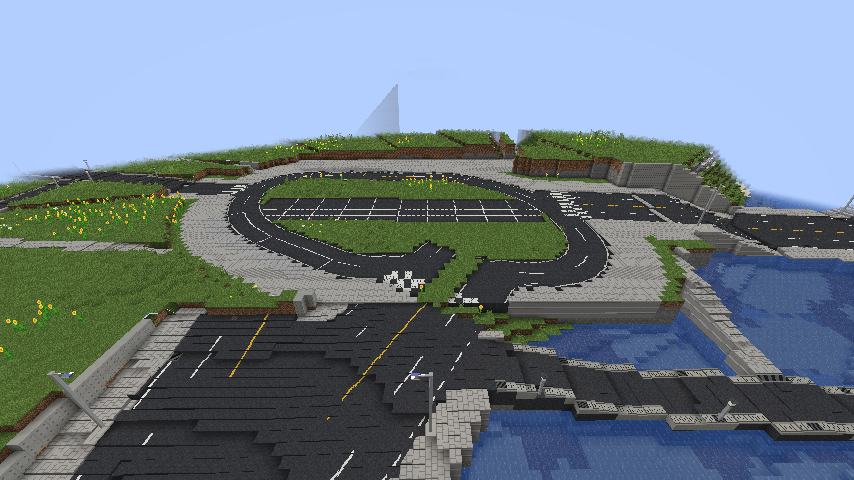
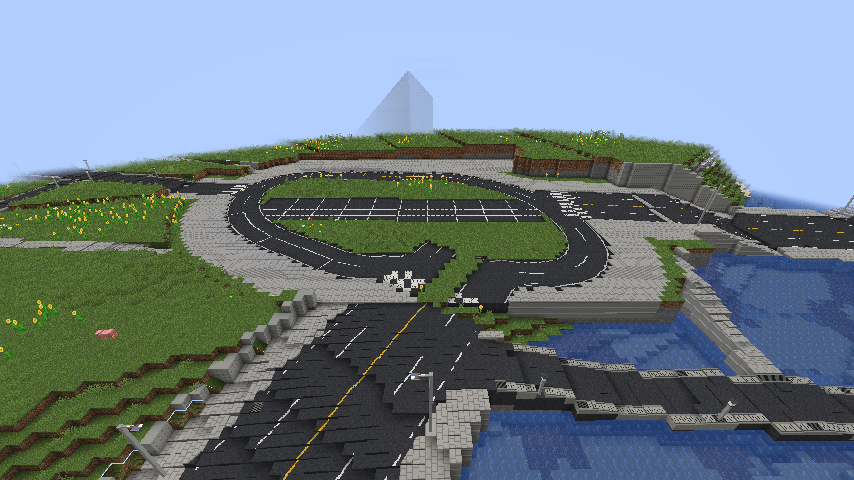
The other arm of a Y with a station's avenue taken away back to its junction; buildings kept off public buildings over their whole footprint

diff --git a/core/src/main/java/com/mtm/citybuilder/core/street/StreetLayer.java b/core/src/main/java/com/mtm/citybuilder/core/street/StreetLayer.java
@@ -2218,8 +2218,135 @@ public final class StreetLayer {
                     out, squareSeed, free, entries);
             plazas.add(square);
             segments.removeIf(inside::contains);
+            prune(square, segments);
         }
         return plazas;
+    }
+
+    /** How far back a street left ending at a square is taken away, at most. */
+    private static final double PRUNE_REACH = 150.0;
+
+    /**
+     * The streets cars use left ending at a square and not joined to its loop (beside its throat: the other arm of a
+     * Y with the avenue, both having run to the station) taken away back to the junction they leave the network at,
+     * not past a side street meeting them nor further than {@link #PRUNE_REACH}.
+     */
+    private static void prune(StationPlaza square, List<StreetSegment> segments) {
+        Map<Long, List<StreetSegment>> at = new HashMap<>();
+        for (StreetSegment g : segments) {
+            at.computeIfAbsent(node(g.x1(), g.z1()), k -> new ArrayList<>()).add(g);
+            at.computeIfAbsent(node(g.x2(), g.z2()), k -> new ArrayList<>()).add(g);
+        }
+        java.util.Set<StreetSegment> gone = java.util.Collections.newSetFromMap(new java.util.IdentityHashMap<>());
+        for (StreetSegment g : segments) {
+            if (!carried(g)) {
+                continue;
+            }
+            for (int end = 0; end < 2; end++) {
+                double px = end == 0 ? g.x1() : g.x2();
+                double pz = end == 0 ? g.z1() : g.z2();
+                if (at.get(node(px, pz)).size() != 1 || !reaches(square, px, pz, 0.5 * g.width() + 3.0)
+                        || joined(square, px, pz, g.width()) || meets(segments, g, px, pz)) {
+                    continue;
+                }
+                // Back along the street from its dead end to where it leaves the network
+                List<StreetSegment> chain = new ArrayList<>();
+                StreetSegment piece = g;
+                double x = px;
+                double z = pz;
+                double length = 0.0;
+                boolean ends = false;
+                while (piece != null && length <= PRUNE_REACH) {
+                    chain.add(piece);
+                    length += piece.length();
+                    boolean first = Math.hypot(piece.x1() - x, piece.z1() - z) < 0.5;
+                    x = first ? piece.x2() : piece.x1();
+                    z = first ? piece.z2() : piece.z1();
+                    List<StreetSegment> there = at.get(node(x, z));
+                    StreetSegment next = null;
+                    int others = 0;
+                    for (StreetSegment o : there) {
+                        if (o != piece) {
+                            others++;
+                            next = o;
+                        }
+                    }
+                    if (others != 1 || sideOn(segments, piece, chain)) {
+                        ends = others >= 2 && !sideOn(segments, piece, chain);
+                        break;
+                    }
+                    piece = next;
+                }
+                if (ends && length <= PRUNE_REACH) {
+                    gone.addAll(chain);
+                }
+            }
+        }
+        segments.removeIf(gone::contains);
+    }
+
+    private static long node(double x, double z) {
+        return ((long) Math.round(2 * x) << 32) ^ (Math.round(2 * z) & 0xFFFFFFFFL);
+    }
+
+    /** Whether a square's land lies within {@code r} of a point. */
+    private static boolean reaches(StationPlaza square, double x, double z, double r) {
+        double[] b = square.bounds();
+        if (x < b[0] - r || x > b[2] + r || z < b[1] - r || z > b[3] + r) {
+            return false;
+        }
+        if (square.contains(x, z)) {
+            return true;
+        }
+        for (double d = 1.0; d <= r; d += 1.0) {
+            for (int k = 0; k < 16; k++) {
+                double a = Math.PI * k / 8;
+                if (square.contains(x + d * Math.cos(a), z + d * Math.sin(a))) {
+                    return true;
+                }
+            }
+        }
+        return false;
+    }
+
+    /** Whether a street's end is joined to the square: one of its links (the throat or a joined street) starts by it. */
+    private static boolean joined(StationPlaza square, double x, double z, double width) {
+        double[] p = square.local(x, z);
+        for (StationPlaza.Link link : square.links()) {
+            if (Math.hypot(link.u1() - p[0], link.v1() - p[1]) <= 0.5 * width + 4.0
+                    || Math.hypot(link.u2() - p[0], link.v2() - p[1]) <= 0.5 * width + 4.0) {
+                return true;
+            }
+        }
+        return false;
+    }
+
+    /** Whether a street's end meets another piece between its ends (a T onto it): not a dead end. */
+    private static boolean meets(List<StreetSegment> segments, StreetSegment g, double x, double z) {
+        for (StreetSegment o : segments) {
+            if (o != g && distanceToSegment(x, z, o) <= Math.max(1.0, 0.5 * o.width())) {
+                return true;
+            }
+        }
+        return false;
+    }
+
+    /** Whether a street other than the chain's meets a piece of it between its ends, on its centre line. */
+    private static boolean sideOn(List<StreetSegment> segments, StreetSegment piece, List<StreetSegment> chain) {
+        for (StreetSegment o : segments) {
+            if (chain.contains(o)) {
+                continue;
+            }
+            for (double[] e : new double[][]{{o.x1(), o.z1()}, {o.x2(), o.z2()}}) {
+                boolean atEnd = Math.hypot(e[0] - piece.x1(), e[1] - piece.z1()) < 0.5
+                        || Math.hypot(e[0] - piece.x2(), e[1] - piece.z2()) < 0.5;
+                // On its centre line (a T onto it), not a street of its own merely running within its paving
+                if (!atEnd && distanceToSegment(e[0], e[1], piece) <= 2.0) {
+                    return true;
+                }
+            }
+        }
+        return false;
     }
 
     /** Whether cars use a street piece: not a lane, footpath, steps or bridge. */

diff --git a/core/src/main/java/com/mtm/citybuilder/core/building/BuildingLayer.java b/core/src/main/java/com/mtm/citybuilder/core/building/BuildingLayer.java
@@ -533,16 +533,22 @@ public final class BuildingLayer {
                 plot.remnant(), plot.row(), plot.use(), plot.pole());
     }
 
-    /** A building's corners and middle in the world, from its frontage along the street and its depth back. */
+    /**
+     * Points over a building's footprint in the world, every 4 or less along the street and back from it, its corners
+     * included (a long shop may cross a small park between its corners).
+     */
     private static double[][] outline(TownPlots plots, Plot plot, Building b) {
-        double[][] out = new double[5][];
+        double length = b.to() - b.from();
+        double deep = b.back() - b.front();
+        int na = Math.max(1, (int) Math.ceil(length / 4.0));
+        int nd = Math.max(1, (int) Math.ceil(deep / 4.0));
+        double[][] out = new double[(na + 1) * (nd + 1)][];
         int k = 0;
-        for (double a : new double[]{b.from(), b.to()}) {
-            for (double d : new double[]{b.front(), b.back()}) {
-                out[k++] = at(plots, plot, a, d);
+        for (int i = 0; i <= na; i++) {
+            for (int j = 0; j <= nd; j++) {
+                out[k++] = at(plots, plot, b.from() + length * i / na, b.front() + deep * j / nd);
             }
         }
-        out[4] = at(plots, plot, 0.5 * (b.from() + b.to()), 0.5 * (b.front() + b.back()));
         return out;
     }
 

diff --git a/CLAUDE.md b/CLAUDE.md
@@ -99,8 +99,8 @@ gradlew :fabric:runClient / :forge:runClient    # 开发环境客户端（未验
 - **桥的护栏**（2026-11-22，用户：护栏一片一片、中间能走过去）：街道桥和城际道路桥的护栏改用薄墙 `thin_concrete_light`（`ThinWall` 的直段、外角、内角），放在"有一个相邻或对角邻格中心在桥边以外"的桥面块上（`ChunkLayer.atEdge`，四连通），形状按八个邻格哪些在桥外选（`CityChunks.parapet`），斜着的桥护栏也连成一条
 - **功能层接入建筑层**（2026-11-22，用户：接入功能性建筑，地标组暂不加入）：游戏里每个世界 `logic.buildings().useFunctions()`（`CityWorlds`），建筑层的 `QuarterMap` 换成 `building.FunctionQuarters`（按城，`QuarterMap.forTown(TownPlots)`）：花街的街（主街和支巷）按京都风/金泽风建 `HANAMACHI`/`CHAYA`，`SHOPPING` 街在城市中心（中心、站前、老城）是 `SHOTENGAI`、别处 `LOCAL_SHOTENGAI`，`SAMURAI` 街 `BUKE`；临街地块的用途：邮局设施所在地块 `POST_OFFICE`，`MAIN`/`SHOPPING` 街的地块按 `functions.konbini` 0.035 给便利店、`MAIN` 街再 `fastFood` 0.008 给快餐（花街除外）。整栋生成的公共建筑在 `building.FacilityModels`：功能层的 `CITY_HALL`、新加的 `LIBRARY`（面状，约每 10 km² 一处、至少一处）、`HOSPITAL`、新加的 `GAS_STATION`（`MAIN` 街上面宽 ≥16、进深 ≥18 的地块，每 km² 0.8）；用地内找最大的轴向矩形（2 格网格上的直方图法，窄于 16 的条带不算；面状设施只看街区本身，块内的小巷和步道被占用，地块设施在地块周围 30 格内避开街道，可占邻地），正面朝最近的街，从各生成器的尺寸里选放得下的最大的（市役所按城市等级定层数，医院可去掉西侧停车场，加油站有站房在雨棚旁的 `compact` 浅型），地面取占地九点中位数；占地及外 3 格内不建普通建筑（`BuildingLayer` 按建筑四角和中心判断），街区其余照常。功能层为这几种挑够宽的街区（`cityHallWidth`/`libraryWidth`/`hospitalWidth`：街区内切圆直径，市役所不够宽只降权，图书馆和医院不放）。区块里由 `CityBuildings.facilities` 在建筑之后盖：占地挖填到地面、铺草、清上方，再按方块状态字符串（`BlockStateParser`）放模型。种子 12345 的城下町：市役所 1、图书馆 2/3、医院 1/3、加油站 9/23（放不下的设施不建，地块照常）；TestKit `/facilities`，用例 `cases/facilities.spec.mjs`（截图 `docs/screens/facility-*.png`），测试 `FacilityModelsTest`。地标（城、塔、PLATEAU 体素）还没接。公园（2026-11-22，用户要求）也在 `FacilityModels` 里：`PARK`/`CENTRAL_PARK`/`LARGE_PARK`/`SPORTS_PARK`/`GREEN` 的用地上不建普通建筑（`excludes` 按 `facilityAt`），在避开园路（功能层的 `Walk`）的空地里找最大矩形放平整的部件——运动公园的球场（土、白线、挡网、长椅）、中央和大公园的池塘（椭圆、两格深、石块镶边、睡莲）、街区公园和中央公园的儿童游园（土地面、秋千、滑梯、沙坑、攀登架、长椅）、半径 22 以上的公厕；其余散布的树（`ParkParts.Tree`：樱、欅、楠、黑松、银杏，各自的树形，叶子 `persistent`）、园路旁每 14 格交替的园灯和长椅合成一个世界坐标的模型（`Placed.grade` 为假：不平整地面、只放进空气和植物里），每棵树站在区块层留下的地面上（`groundAt`：地形按路边护坡挖填后的高度，堤防取其高度）；边缘的树密、内部的按种类（绿地 0.85，大公园 0.5，街区公园 0.12）。部件在 `building.landmark.ParkParts`。铺装和装饰（同日）：园路（`Walk` 铺成的 PATH 列）按所在设施换铺装（`CityChunks.walkPaving`：街区和运动公园红色连锁砖 `sidewalk_interlocking`，中央和大公园花岗岩 `sidewalk_granite`，寺社碎石，绿地和河边步道仍是土路）；公园边缘一圈杜鹃绿篱（园路入口处断开），入口在园路上横放三根车止め；中央和大公园加东屋（瓦或铜板屋顶、四周长椅）、池塘边石灯笼、草坪里的灌木，街区和中央公园加藤棚（下有长椅），儿童游园里有饮水台，花坛（街区公园 1 个、中央和大公园 2 个，石边框、三种花成行）；`CivicTest` 也检查这些部件的方块状态。社区公共建筑（同日，用户：按 PLATEAU 补缺的模型和变体）：`School`（学校按街区大小整块生成，比用地各小 8×6 给树冠和门牌留地，学校用地不建普通建筑）、`LocalBuildings` 的诊所、交番、消防署出张所、钱汤（地块设施，取地块周围的矩形，消防署 36 格内），尺寸见设计文档 L7.5"社区公共建筑的尺寸"（`tools/assets/plateau_facilities.py`）；种子 12345 城下町放下学校 29/42、诊所 81/175、交番 38/44、消防署 6/12、钱汤 7/23。公园的规模和园路按 OSM 实测校准（设计文档 L7.5"公园的规模和园路"，`tools/assets/osm_parks.py`，数据在 `core/build/osm/<城>-parks.json`）：近隣尺度的 `PARK`、整块生成的街区公园 `POCKET_PARK`（`ParkParts.pocketPark`）、城址公园 `CASTLE_PARK`（城的 `GROUNDS` 区洪泛成地，兼作中央公园，本丸 `ParkParts.honmaru`，不长天然树）。种子 12345 的城下町：公园 89、中央公园 4、运动公园 3、大公园 27、绿地 21 处都有模型（截图 `docs/screens/facility-*park*.png`、`facility-green-above.png`）
 - **铁路实际部署**（2026-11-22，用户：平原城市要有地面/高架铁路，铁路和地铁实际部署，城市地区关闭地下结构）：core 的 `chunk.RailChunks`（`ChunkLayer.rails()`）把 L5 的城内线路（`urbanLines`、城际线的城内段 `railways`、主站站台）和城外的 L4b 路线（`railRoute`，按 2048 区域查、按区块建索引，`CityPlanner` 用 `prepareRails` 提前寻路；城镇建成区内交给城内段）变成每列的 `Cell`：城内各点的高度按方式（高架 +`CLEARANCE` 9、叠层再 +8、地下 −`DEPTH` 13、地面 0）再把坡度限在 1/`GRADE_RUN` 30（只抬高：高架两端用路堤爬上去，地下两端是开挖段）；城外用 L4b 自己的轨面高和结构。游戏侧 `world.CityRails`（在 `CityChunks.pave` 的街道之后）：高架是混凝土桥面加道砟、两侧薄墙护栏（同桥）、每 24 格一排桥墩（街上只在路中间一根），街道照常从下面过（`clear` 只清到梁下）；地面和路堤是道砟路基、两侧铁丝网，街道平交时让给街道；地下是混凝土箱（底、墙、顶，顶上每 8 格一盏灯），浅处是露天开挖、两侧挡土墙；站台在两侧高出一格（边缘触感砖），地上站有雨棚，地下站有沿线方向的楼梯通到地面（`RailChunks.entrances`）。`transit.build` 默认改为 `ALL`（地铁也建）。城自己的线按 `surfaceShare` 0.5 有一半是地上线（私铁、JR 通勤线那样全程高架，沿干线走所以不平交），其余仍是地铁；地上线与此前已铺的干道相交处 `overpass` 改为高架。建筑、树、公园和公共建筑的用地都避开地上段的线路（`RailChunks.near`，深的地铁不算）。城镇用地内不雕刻洞穴峡谷（`CarversMixin` 取消 `NoiseBasedChunkGenerator.applyCarvers`，`CityChunks.carvingBarred`），原版结构在城镇用地外 96 格内也不开始（`structureBarred`）。TestKit `/rail?kind=elevated|ground|station|subway|wild`，用例 `cases/rails.spec.mjs`（截图 `docs/screens/rail-*.png`）。种子 12345 城下町两条城自己的线都抽成了地上线；地铁在 (-18568, -19860) 的城看过（用例 `cases/subway.spec.mjs`：箱体逐格检查、地下站站台、入口楼梯数台阶，截图 `docs/screens/subway-*.png`），地下站站台上方每 4 格一盏灯，入口楼梯离线路中心 max(站宽+1, 头上街道半宽+2.5)，楼梯脚有一段 3 高的通道接到站台；城外一处过河段轨面贴着冰面（L4b 路线自己的高度）
-- **0.0.3-alpha 的修复**（2026-11-23，用户试玩 0.0.2 反馈）：建筑按整个占地每 2.5 格检查铁路（`RailChunks.near(town, …)`）（2026-11-23 起地块先按路基裁小再建，`BuildingLayer.clearOfRails`，离路基 1 格，铁路两侧不再留空地块）；车站两侧站台加宽（`STATION` 11、`TRACKS` 4.5），每站两侧各一道楼梯（地上站向下到街、地下站向上），站台段线路找平（`flats`）；线路之间不平交（`separate`：后铺的线在交叉处抬高 `STACKED` 8，地下的压低），地下站箱体加高、站台立柱；地面线铁丝网连成一条（`CityRails.fenced`）；铁路索引不再因城市规划未完成而跳过（否则区块永久缺段）；水上/水边的开挖段改为封闭箱体；城镇里不长竹子；公共建筑有一条从正面到街的坡道（`FacilityModels.access`，`Placed.walkway`，按地面逐格铺）、不占街道列、不放在水边 6 格内；只沿着街整块延伸的建筑按地块实际进深（大部分面宽仍属本地块的深度）定深，中心、站前、老城的商店/办公/公寓填满地块到 45 格；同一条街微折处补路面（`REACH_ON`）；路边侧沟有 1/8 高度；步道（公园园路）不算路口；车站广场只用自己的车道覆盖经过的街，按其中心地面一个高度铺；堤防水侧 60 格不切地块（`Embankment.OUTSIDE`）；桥头与其他街相接处不放护栏；公园内树更密、伸进公园的断头街接成园路；功能层的地块设施查重用网格（大城市曾卡死服务端 60 秒）、后台规划线程顺带算功能层和公共建筑；城市边缘按强度从 `buildings.fringe` 0.4 起逐渐空置（最多再空 `fringeVacant` 0.65），城外农田和边缘空地铺成田（`ChunkLayer.field`、`world.CityFarms`：32×20 的田块，水田为主，田埂土路，有 12% 留作树林或荒地，田上不长树）；测试客户端不抓鼠标。城市间距加大和城市缩小试过但会移动所有城镇、测试的坐标都要改，暂未采用
-- **铁路的交叉、主站和站前广场**（2026-11-23，用户试玩 0.0.3 反馈）：一列里所有铺得到的线段都算，取最高的那条，下面深出 6 格以上的地铁作为 `Cell.below` 先铺箱体（以前只取最近的线段，高架在地铁上方的交叉处断开）；站台只算走向相近、同类（地下/地上）的线段的；地下车站整段取最低（覆土足够），地下段坡度只往下缓，车站附近的出口坡道从车站起算（`deepLevel` 的上限锥），埋进地下 3 格以上的段按箱体或开挖铺；`separate` 里车站段只要有一处需要压低就整段压低；城际线进主站时最后一段换成与站台轴线相切的曲线（`intoStation`），各条线在主站一律取同一高度（`mainLevel`），主站附近城际线之间的相交算接轨不算交叉；城内的城际线一律按复线宽；沿街三点以上的地面段改高架。站前广场的铺装暂停过，之后重做（同日）：车站和广场是一个地块（`Plot.Use.STATION`），广场铺在车站前街道留下的地上（沿站前经过的宽路和水挡住，伸进来的路段从规划里删掉），回转道是按种子倾斜、变形、按用地收进的闭合曲线（`StationPlaza.Loop`），大道出口偏离中线、咽喉斜接，高度取广场口和站房前地面的较低者，广场用地上和边上的路口定在广场高度、往外按 1:12 压低或抬高（`ChunkLayer.squares`），伸到广场边的车行街接进回转道（`StationPlaza.Entry`），`plazaPaving` 重新打开（见设计文档 L5"站前广场"）。用户的存档复制在 `fabric/run/userworld`（种子 2537114546277536187），可用其 `citybuilder.db` 复现
+- **0.0.3-alpha 的修复**（2026-11-23，用户试玩 0.0.2 反馈）：建筑按整个占地每 2.5 格检查铁路（`RailChunks.near(town, …)`）（2026-11-23 起地块先按路基裁小再建，`BuildingLayer.clearOfRails`，离路基 1 格，铁路两侧不再留空地块）（公共建筑的排除按建筑占地每 4 格一点查，以前只查四角和中心，长店铺会跨过小公园）；车站两侧站台加宽（`STATION` 11、`TRACKS` 4.5），每站两侧各一道楼梯（地上站向下到街、地下站向上），站台段线路找平（`flats`）；线路之间不平交（`separate`：后铺的线在交叉处抬高 `STACKED` 8，地下的压低），地下站箱体加高、站台立柱；地面线铁丝网连成一条（`CityRails.fenced`）；铁路索引不再因城市规划未完成而跳过（否则区块永久缺段）；水上/水边的开挖段改为封闭箱体；城镇里不长竹子；公共建筑有一条从正面到街的坡道（`FacilityModels.access`，`Placed.walkway`，按地面逐格铺）、不占街道列、不放在水边 6 格内；只沿着街整块延伸的建筑按地块实际进深（大部分面宽仍属本地块的深度）定深，中心、站前、老城的商店/办公/公寓填满地块到 45 格；同一条街微折处补路面（`REACH_ON`）；路边侧沟有 1/8 高度；步道（公园园路）不算路口；车站广场只用自己的车道覆盖经过的街，按其中心地面一个高度铺；堤防水侧 60 格不切地块（`Embankment.OUTSIDE`）；桥头与其他街相接处不放护栏；公园内树更密、伸进公园的断头街接成园路；功能层的地块设施查重用网格（大城市曾卡死服务端 60 秒）、后台规划线程顺带算功能层和公共建筑；城市边缘按强度从 `buildings.fringe` 0.4 起逐渐空置（最多再空 `fringeVacant` 0.65），城外农田和边缘空地铺成田（`ChunkLayer.field`、`world.CityFarms`：32×20 的田块，水田为主，田埂土路，有 12% 留作树林或荒地，田上不长树）；测试客户端不抓鼠标。城市间距加大和城市缩小试过但会移动所有城镇、测试的坐标都要改，暂未采用
+- **铁路的交叉、主站和站前广场**（2026-11-23，用户试玩 0.0.3 反馈）：一列里所有铺得到的线段都算，取最高的那条，下面深出 6 格以上的地铁作为 `Cell.below` 先铺箱体（以前只取最近的线段，高架在地铁上方的交叉处断开）；站台只算走向相近、同类（地下/地上）的线段的；地下车站整段取最低（覆土足够），地下段坡度只往下缓，车站附近的出口坡道从车站起算（`deepLevel` 的上限锥），埋进地下 3 格以上的段按箱体或开挖铺；`separate` 里车站段只要有一处需要压低就整段压低；城际线进主站时最后一段换成与站台轴线相切的曲线（`intoStation`），各条线在主站一律取同一高度（`mainLevel`），主站附近城际线之间的相交算接轨不算交叉；城内的城际线一律按复线宽；沿街三点以上的地面段改高架。站前广场的铺装暂停过，之后重做（同日）：车站和广场是一个地块（`Plot.Use.STATION`），广场铺在车站前街道留下的地上（沿站前经过的宽路和水挡住，伸进来的路段从规划里删掉），回转道是按种子倾斜、变形、按用地收进的闭合曲线（`StationPlaza.Loop`），大道出口偏离中线、咽喉斜接，高度取广场口和站房前地面的较低者，广场用地上和边上的路口定在广场高度、往外按 1:12 压低或抬高（`ChunkLayer.squares`），伸到广场边的车行街接进回转道（`StationPlaza.Entry`），接不上的（与大道成 Y 字的另一臂）删回到路口（`StreetLayer.prune`），`plazaPaving` 重新打开（见设计文档 L5"站前广场"）。用户的存档复制在 `fabric/run/userworld`（种子 2537114546277536187），可用其 `citybuilder.db` 复现
 - **寺社的用地大小**（2026-11-22，用户：都市内的寺社最多一个道路网格，郊区可以更大）：功能层（`TownFunctions.inTown`）把下町、老城、站前和离中心不到城市半径 `suburbReach` 0.6 的地方算作城内：城内的寺院、神社只占一个普通街区，不超过 `templeTownMax` 1.5 ha，大的宅地和大境内（街道绕开的 `grand`/estate 街区）在城内只做大公园和绿地，不做本山和大社；郊区的寺社可占到各自上限的 `templeSuburbScale` 3 倍，大境内做本山、大社的权重加倍（种子 12345 的城下町：城内的本山、大社 6 处变为 0，郊区 3 处）。门前町（`TEMPLE_TOWN`）中心那座寺的境内（`District.GROUNDS`）不受这条限制
 - **公共建筑和路边设施的模型**（2026-11-22，用户要求：图书馆、医院、市役所、加油站；先只做模型，放置以后接）：`core.building.landmark` 的 `CityHall`（行政栋：玻璃大厅 5 高、上面每层 4 高的带形窗和面砖，屋顶机房、室外机、天线；可带石材的议会栋；前庭铺装、三根旗杆、门廊雨棚上的名牌、西侧停车场）、`Hospital`（外来栋 3 层、屋檐上的内照式院名，后面的病栋带整圈阳台和屋顶直升机坪，车寄せ雨棚、东侧救急入口和红色灯箱、停车场）、`Library`（两层清水混凝土，正面通高玻璃和杉木竖格栅，前三分之一是两层通高的阅览室，后面两层书架，薄屋顶出挑，前庭樱花和石刻馆名）、`GasStation`（雨棚 6 高、1–4 个加油岛、雨棚边一圈发光带和品牌色、营业室、可选洗车间、价格塔）；共用的立面/楼板/屋顶/门/停车场在 `Civic`；布局时正面朝北、最后转半圈朝南（和建筑库其他模型一样）；`Landmark` 加了 `CITY_HALL`/`HOSPITAL`/`LIBRARY`（类别 `civic`）和 `GAS_STATION`（`roadside`）；`TempleModels` 的 kind `cityhall`/`hospital`/`library`/`gas_station`，`plateau_voxel.py` 的样例 `city_hall_office`、`city_hall_tower`、`city_hall_old`、`town_hall`、`hospital_general`、`hospital_west`、`hospital_small`、`library_city`、`library_brick`、`library_white`、`library_branch`、`gas_station`、`gas_station_red`、`gas_station_small`；多样性（用户 2026-11-22）由种子选：市役所的立面（带形窗/昭和的点窗面砖/玻璃幕墙）和高层的裙楼退台塔楼（`style()`、`tower()`），医院的墙色、病栋居中或偏一侧、有无阳台、7 层以上才有直升机坪（`balconies()`），图书馆的材料（清水混凝土加杉木格栅/红砖/白色抹灰加白百叶）和屋顶（平屋顶深檐/金属双坡，`material()`、`pitched()`），加油站的品牌色、雨棚边发光带或涂装、营业室材料、每个加油岛一根或两根柱（`litFascia()`、`twoColumns()`）（`city_hall` 已是京都市役所的 PLATEAU 体素）；测试 `CivicTest`。`plateau_voxel.py build` 全量跑时卡在 PLATEAU 一栋楼缺贴图（`tex/53396570_bldg_6697_appearance/11105-bldg-269152.jpg`，和这次无关），这几件是单独构建后复制进库目录的，`library.json` 里还没有它们
 - **本 mod 的方块**（`block.CityBlocks`，经 `Platform.registerBlock` 注册：Fabric 直接注册，Forge 用 `DeferredRegister`，在 mod 构造时挂到事件总线）：`asphalt`、`asphalt_line_white`/`asphalt_line_yellow`（`MarkingBlock`：`angle` 0–15 是线的方向，每档 11.25°，`offset` 0–7 是线在格子里沿法线的位置，由 `ChunkLayer.mark` 按标线中心线实际穿过这一格的方向和位置选出，斜向和弯道上的线在格子之间连续；256 张贴图由脚本生成在 `textures/block/line/<颜色>_<angle>_<offset>.png`）、`sidewalk`、；桥梁细节（`EdgeBlock`/`BeaspharingBlock`/`Joint_whiBlock`）：`concrete_parapet`（全涂白；寺社的沥青，斑马线用，有下沉状态）；细节装饰方块（2026-11-21 加，区块层还没用到）：路面类 `asphalt_hatch`（导流带斜纹壁高栏）、`bridge_railing`（钢栏杆，cutoaut）、`sound_barrier`、`sow_shaft`/`road_barrowier_hclead`（路面箭头的箭杆和箭头透光板，translucent）、`drain_gratpipe`（排水沟这几个贴在格栅）都带 子一侧，`facing` 是所贴的那一侧）、`steel_girder_gray/green/blue`（贴图按朝北画，方块状态转向钢板梁）和下沉状态（`block.Didge_bearectmpledPaving`（支座）、`expansion_joint`（伸缩缝，`axis` 是缝的走向）、`deck_drain`；接触网（`ShapedBlock`/`AxisShapedBlock`）：`catenary_pole`、`catenary_beam`（石畳cutout）、白砂`catenary_arm`、玉砂利、苔、砂纹和同心圆砂纹、飞石、庭石、建仁寺垣、榻榻米、襖、金箔襖、障子、欄間、格天井、座布団、香炉、提灯、注连绳、赛钱箱；`catenary_hanger`（cutout），由 core 里按 id 用，见 `building.rail.Catenary` 摆成门形梁或腕臂；`curve_manhole.Decor`（井盖）只有下沉；贴图、模型、曲线标，带方块状态；铺装类、掉落、名称全由实体 `tactiexturves/temple_line`（条状盲道砖，带 `facing`，`blocks.DirectedBlockEntity`，客户端 `client.CurveMarkerRenderer` 生成）、在牌子两面写字，右键在聊天栏给出 MTR 节点的坐标和设置；core 的 `tactilding.rail.Curve_doMarker` 在每条股道两端放，数据以 SNBT 后缀跟在方块状态后面，导出的 `.nbt`（点状盲道砖）、 写成方块实体数据；方块实体类型经 `Platform.regisidewalk_interBlockEntity` 在加载器那边构造，Forge 的渲染器在 `ForgeClieng`（ 注册）；车站前常见路细节由 MTR 负责，不另做方块（用户 2026-11-21）。Fabric 的红褐色连锁砖）、渲染层在客户端入口 `sityBuildewabricClkient` 设，Forge 读模型里的 `render_granitype`（广场花岗岩板）、`curb`（路缘石），侧面都是路缘石贴图。贴图由 `tools/textures/road_textures.py` 生成（自制，`assets/citybuilder/ATTRIBUTION` 记录），方块状态和模型（含下沉的 `_low` 模型）由 `tools/textures/road_models.py` 生成，改了改脚本后依次重跑。；地标用机场航站楼的桥梁和接触网方块（2026-11-21）：`track`（全天候跑道）、`tu.Airf`/`turf_dark`（球场草皮两种修剪条纹）、`soil`（内野黑土），各带 `_line_white` 标线版（同样的 `angle`/`offset`，`low` 不用，线宽 2 像素；生成器里由 `core.building.landmark.Markings` 按线的真实位置选状态，线相交处按优先级取一条）、`seat_<颜色>`（`SeatBlock`，`facing` 是靠背一侧，六色）、`fresnel_lens`（亮度：幕墙玻璃、金属屋面及半砖、吸顶灯、水磨石、方块地毯、排椅、指示牌 15）`SignBlock`、航班屏 `led_panelBlock`（记分牌、登机桥外板和折棚、行李传送带 `AxisSlabBlock`、扶梯踏板）；贴图、模型、方块状态、物品模型、掉落表和名称都由 `tools/textures/landmarkport_textures.py` 生成、方块状态/；幕墙半透明，Fatenary_textures.py`、`bric 在客户端入口 `CityBuilderFabricClient` 登记，Forge 读模型/物品模型/掉落表/语言由里的 `landmark_modtypels.py` 生成，同样依次重跑。

diff --git a/docs/city-logic-design.md b/docs/city-logic-design.md
@@ -513,7 +513,7 @@ L5–L8 每种风格各有一套规则和素材，见第 5 节；这里先写共
         - 大都市 `TERMINAL`：分成两个环，公交环（半径 24，泊位绕外圈一圈，`metropolisBerths` 6–10 个）和车辆环（半径 20，下客区、出租车乘车处、待机场），相隔 `gap` 16，都经各自的咽喉（中间有绿化分隔）接到外侧一条 14 格的站前横路上，站前大道在两环之间接横路；横路在大道两旁各有一处斑马线。
         - 泊位按回转道中线的弧长定位（`Loop.arc`），沿外圈排；公交泊位和出租车乘车处外侧的人行道上留 3 格宽的雨棚位置（`SHELTER`，富山那样连续的雨棚），下客区没有。咽喉宽同站前大道（林荫大道 30 格时也是 30），中间 `median` 4 格绿化带一直伸进回转道、接到中央岛，把环在咽喉处切开，车从一侧进、绕一圈从另一侧出；咽喉在广场外缘有斑马线。
         - 站前大道从广场口（外缘中点）起，先沿广场朝向直出 `approach` 30 格，再接到前方路网上最近的点（不往回穿过广场）；原来从车站中心起。
-        - **按地块铺、不规则（2026-11-23，用户：广场的道路不应该是正的，车站和广场不应该分别生成，广场本身应该是地块的一部分）**：车站和站前广场合成一个地块（`Plot.Use.STATION`，`TownPlots.at` 在广场用地上返回它，建筑层不在上面放普通建筑）。广场的用地（`StationPlaza.Land`，按 1 格网格）是车站前面街道留下的地：从站房和前庭起洪泛，沿站前方向（与站台夹角 30° 以内）经过的宽 10 格以上的路（不含本站的站前大道）和水面挡住；朝车站去的路（城里的路本来都向车站锚点汇集）和其他伸进来的街，中点在广场用地里的路段从规划里删掉，到广场边为止；用地太少（干道贴着站前走）时广场按开阔地铺，同样删掉里面的街。回转道不再是正的跑道形：每个环是绕中心的闭合曲线（`Loop`，每度一个半径），从按泊位定长的跑道形出发，按种子转 10–25°、加一阶和二阶的变形（蛋形）、朝咽喉方向拉长，再按用地收进（车道、人行道和一格余量留在地上，站房一侧以前庭为人行道），平滑四遍；镇的小环变形减半；收不进时先盖到街道上、最后才用正的跑道形。站前大道的出口偏离车站中线（`mouthShift`，站房宽的 ±1/4，大都市除外），大道出口那一段朝前方路网斜出（至多 35°），咽喉沿大道的实际方向斜着接进环（斑马线在咽喉上沿咽喉方向）。广场只占用到的地：站房、前庭、环和咽喉外 `lane/2 + walk + CANOPY + 2` 以内，离道路较远的角落种草。广场高度取广场口和站房前的地面中较低的一个（再不高于用地地面的中位数），原来取外接框中点的地面，坡地上一侧高出很多。`streets.plazaPaving` 重新默认打开。站房用地仍空着，车站建筑等建筑库。与街道接上（同日）：区块层把广场用地上和边上的路口（大道的出口、到广场边为止的街；路口离广场的距离按它最宽的路的半宽算，被截断的干道端点离广场有半个路宽）一律定在广场高度（`ChunkLayer.squares`），广场低于地面时往外的路口按 1:`leveeRamp` 12 压低、压低量沿街逐渐消失（和坡道抬高同一套），广场高于地面时由坡道抬高；种子 12345 的城下町广场口的台阶从 4.8 格降到 0.2 格（`BridgeEndsTest` 检查广场口附近广场与街道的高差不超过 1 格）。伸到广场边的街接进回转道（同日，用户：旁边有道路交叉就直接接入站前道路）：街道层先按无接入铺一次广场，找出车走的街（不含小巷、步道、台阶、桥）在广场用地上的端点，或被广场删掉的路段与留下的路段相接的路口（站前大道除外），按离车站由近到远交给 `StationPlaza.lay` 再铺一次；每条街从用地边（端点在用地外时从端点）沿自己的方向接到环的中心线（偏离不了环时转向环的中心，至多 50°），宽度同那条街，在环的人行道处画斑马线；穿过站房、前庭、别的接入路或另一个环的，或在环上离咽喉、别的接入口太近的不接；接入口占到的泊位去掉；接入路的地并入广场用地（`StationPlaza.Entry`、`join`，测试 `StationPlazaTest.sideStreetsJoinTheLoop`）。种子 12345 的城下町接上了 2 条。
+        - **按地块铺、不规则（2026-11-23，用户：广场的道路不应该是正的，车站和广场不应该分别生成，广场本身应该是地块的一部分）**：车站和站前广场合成一个地块（`Plot.Use.STATION`，`TownPlots.at` 在广场用地上返回它，建筑层不在上面放普通建筑）。广场的用地（`StationPlaza.Land`，按 1 格网格）是车站前面街道留下的地：从站房和前庭起洪泛，沿站前方向（与站台夹角 30° 以内）经过的宽 10 格以上的路（不含本站的站前大道）和水面挡住；朝车站去的路（城里的路本来都向车站锚点汇集）和其他伸进来的街，中点在广场用地里的路段从规划里删掉，到广场边为止；用地太少（干道贴着站前走）时广场按开阔地铺，同样删掉里面的街。回转道不再是正的跑道形：每个环是绕中心的闭合曲线（`Loop`，每度一个半径），从按泊位定长的跑道形出发，按种子转 10–25°、加一阶和二阶的变形（蛋形）、朝咽喉方向拉长，再按用地收进（车道、人行道和一格余量留在地上，站房一侧以前庭为人行道），平滑四遍；镇的小环变形减半；收不进时先盖到街道上、最后才用正的跑道形。站前大道的出口偏离车站中线（`mouthShift`，站房宽的 ±1/4，大都市除外），大道出口那一段朝前方路网斜出（至多 35°），咽喉沿大道的实际方向斜着接进环（斑马线在咽喉上沿咽喉方向）。广场只占用到的地：站房、前庭、环和咽喉外 `lane/2 + walk + CANOPY + 2` 以内，离道路较远的角落种草。广场高度取广场口和站房前的地面中较低的一个（再不高于用地地面的中位数），原来取外接框中点的地面，坡地上一侧高出很多。`streets.plazaPaving` 重新默认打开。站房用地仍空着，车站建筑等建筑库。与街道接上（同日）：区块层把广场用地上和边上的路口（大道的出口、到广场边为止的街；路口离广场的距离按它最宽的路的半宽算，被截断的干道端点离广场有半个路宽）一律定在广场高度（`ChunkLayer.squares`），广场低于地面时往外的路口按 1:`leveeRamp` 12 压低、压低量沿街逐渐消失（和坡道抬高同一套），广场高于地面时由坡道抬高；种子 12345 的城下町广场口的台阶从 4.8 格降到 0.2 格（`BridgeEndsTest` 检查广场口附近广场与街道的高差不超过 1 格）。伸到广场边的街接进回转道（同日，用户：旁边有道路交叉就直接接入站前道路）：街道层先按无接入铺一次广场，找出车走的街（不含小巷、步道、台阶、桥）在广场用地上的端点，或被广场删掉的路段与留下的路段相接的路口（站前大道除外），按离车站由近到远交给 `StationPlaza.lay` 再铺一次；每条街从用地边（端点在用地外时从端点）沿自己的方向接到环的中心线（偏离不了环时转向环的中心，至多 50°），宽度同那条街，在环的人行道处画斑马线；穿过站房、前庭、别的接入路或另一个环的，或在环上离咽喉、别的接入口太近的不接；接入口占到的泊位去掉；接入路的地并入广场用地（`StationPlaza.Entry`、`join`，测试 `StationPlazaTest.sideStreetsJoinTheLoop`）。种子 12345 的城下町接上了 2 条。接不上的车行街（在咽喉旁边、与站前大道成 Y 字的另一臂：两条都是朝车站锚点修的）从广场边的尽头往回删到它离开路网的路口（`StreetLayer.prune`：不越过中心线上接进来的支路，最多 150 格），种子 12345 的城下町广场口旁的那条 24 格宽的干道因此删掉了约 32 格（用户 2026-11-23：Y 字分叉另一边的道路就不要了）。
         - **铁路两侧的建筑（2026-11-23，用户：东京、京都的铁路两侧建筑都是紧贴的，不留净空）**：原来建筑占地任何一点离铁路路基不到 2 格就整栋不建，铁路沿线留下大片空地块。现在先把地块按路基裁小（`BuildingLayer.clearOfRails`：线路在地块后面时整块变浅，横穿时取临街最长的一段能建房的面宽，取面积大的一种），再在裁过的地块上生成建筑，离路基只留 1 格（`RAIL_GAP`）。
         - 实测（种子 12345 的城下町）：城市模板，泊位 8 个，89 × 89 格，大道从广场口向西出。调试图 `gradlew :core:cityMap -Players=plaza ...`（以第一个广场为中心，按区块层的铺法逐像素着色）。
         - 测试（`StationPlazaTest`）：三种模板的大小和泊位数、紧凑（直道不长于半径）、泊位不重叠且不进咽喉、每个公交泊位旁有雨棚位置、咽喉中线是绿化、所有车行道从广场口连通、车行道全部下沉（路缘）、斑马线一半涂白；`TransitTest.theMainStationHasItsSquare`：大都市的主站有终点站式广场，大道从广场口直出，广场里没有公交站。
